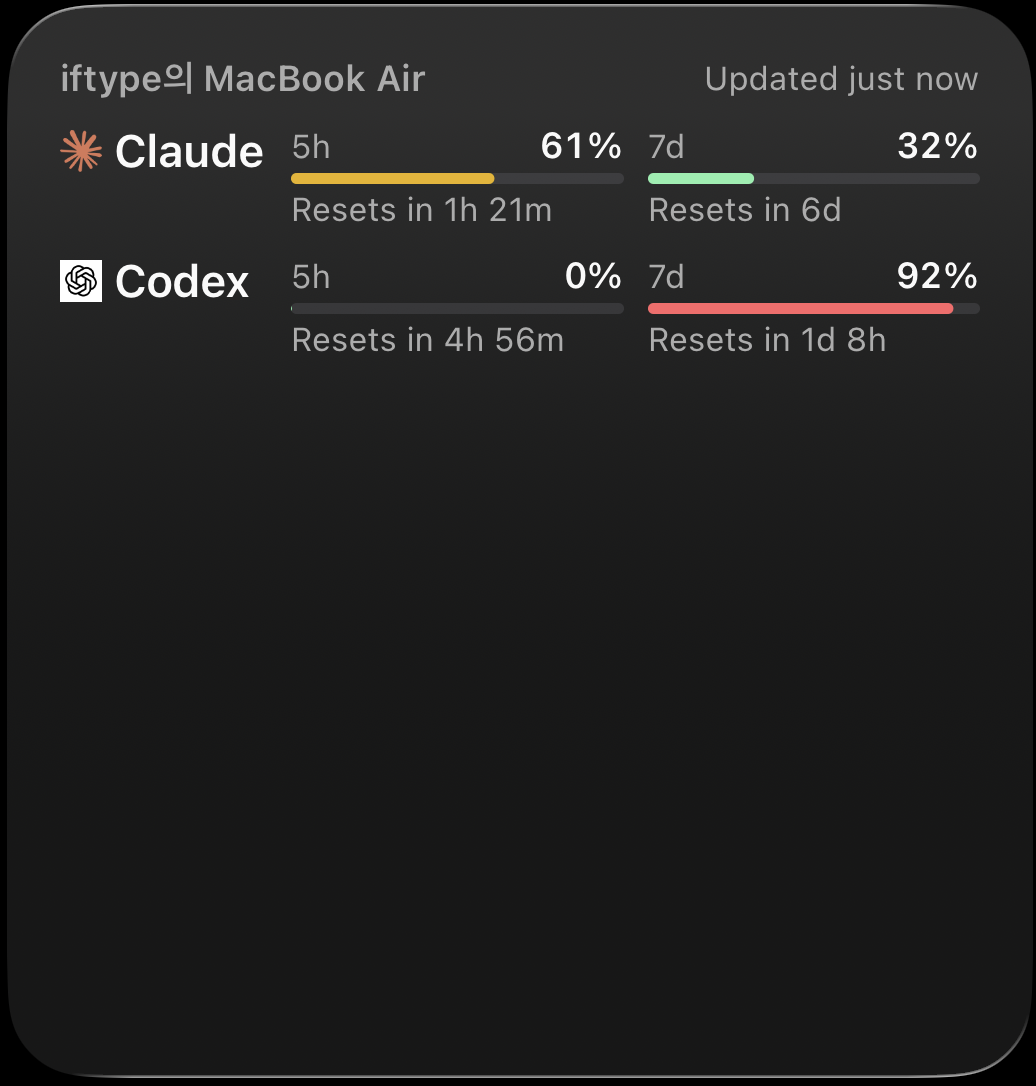
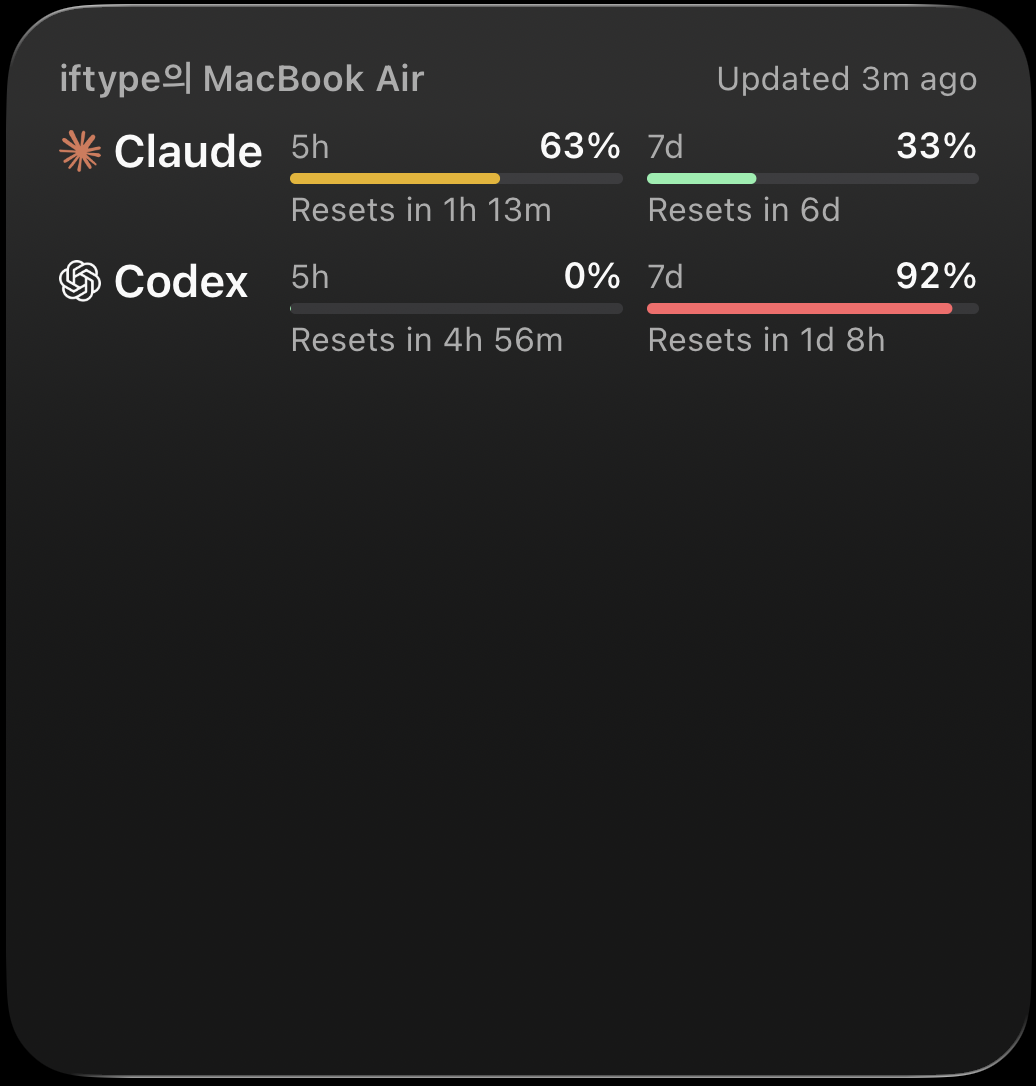
docs: Orca #32716 영어 캡처를 아이콘 고친 뒤 것으로 교체

diff --git a/orca/32716/README.md b/orca/32716/README.md
@@ -10,6 +10,6 @@
 | ios-widget-medium-v2.png | PR용 중간 크기(고친 뒤): 이름 왼쪽, 업데이트 시간 오른쪽, 리셋 '1시간 49분 후 초기화'. 2026-11-23 04:41 |
 | ios-widget-small-v2.png | PR용 작은 크기(고친 뒤), 같은 시각 |
 | ios-widget-large-v2.png | PR용 큰 크기(고친 뒤), 에이전트 2개. 2026-11-23 04:42 |
-| en-small-5h.png | PR용 작은 크기, 영어, 5시간 창(오른쪽 위 5h 라벨). 2026-11-23 05:09 |
-| en-small-both.png | PR용 작은 크기, 영어, 5h와 7d 둘 다 |
-| en-large.png | PR용 큰 크기, 영어 |
+| en-small-7d.png | PR용 작은 크기, 영어, 주간 창(오른쪽 위 7d 라벨), 앱과 같은 아이콘. 2026-11-23 05:16 |
+| en-small-both.png | PR용 작은 크기, 영어, 5h와 7d 둘 다, 앱과 같은 아이콘. 05:16 |
+| en-large.png | PR용 큰 크기, 영어, 앱과 같은 아이콘. 05:16 |
